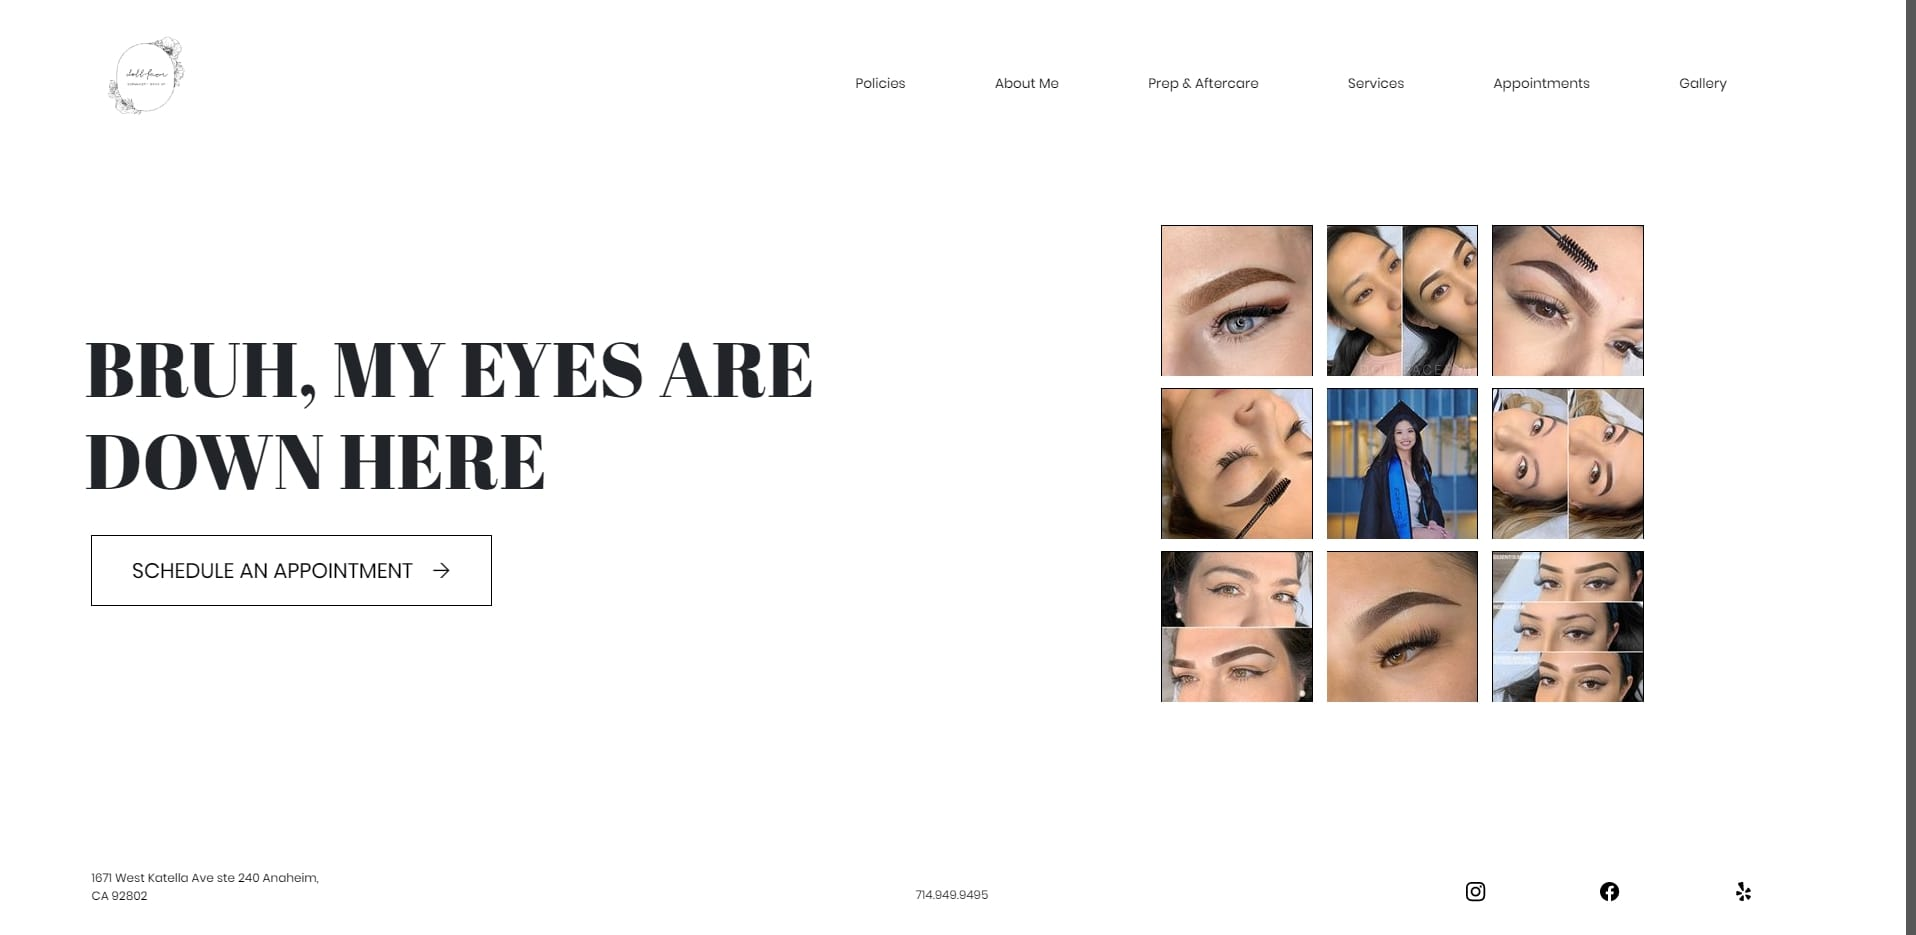
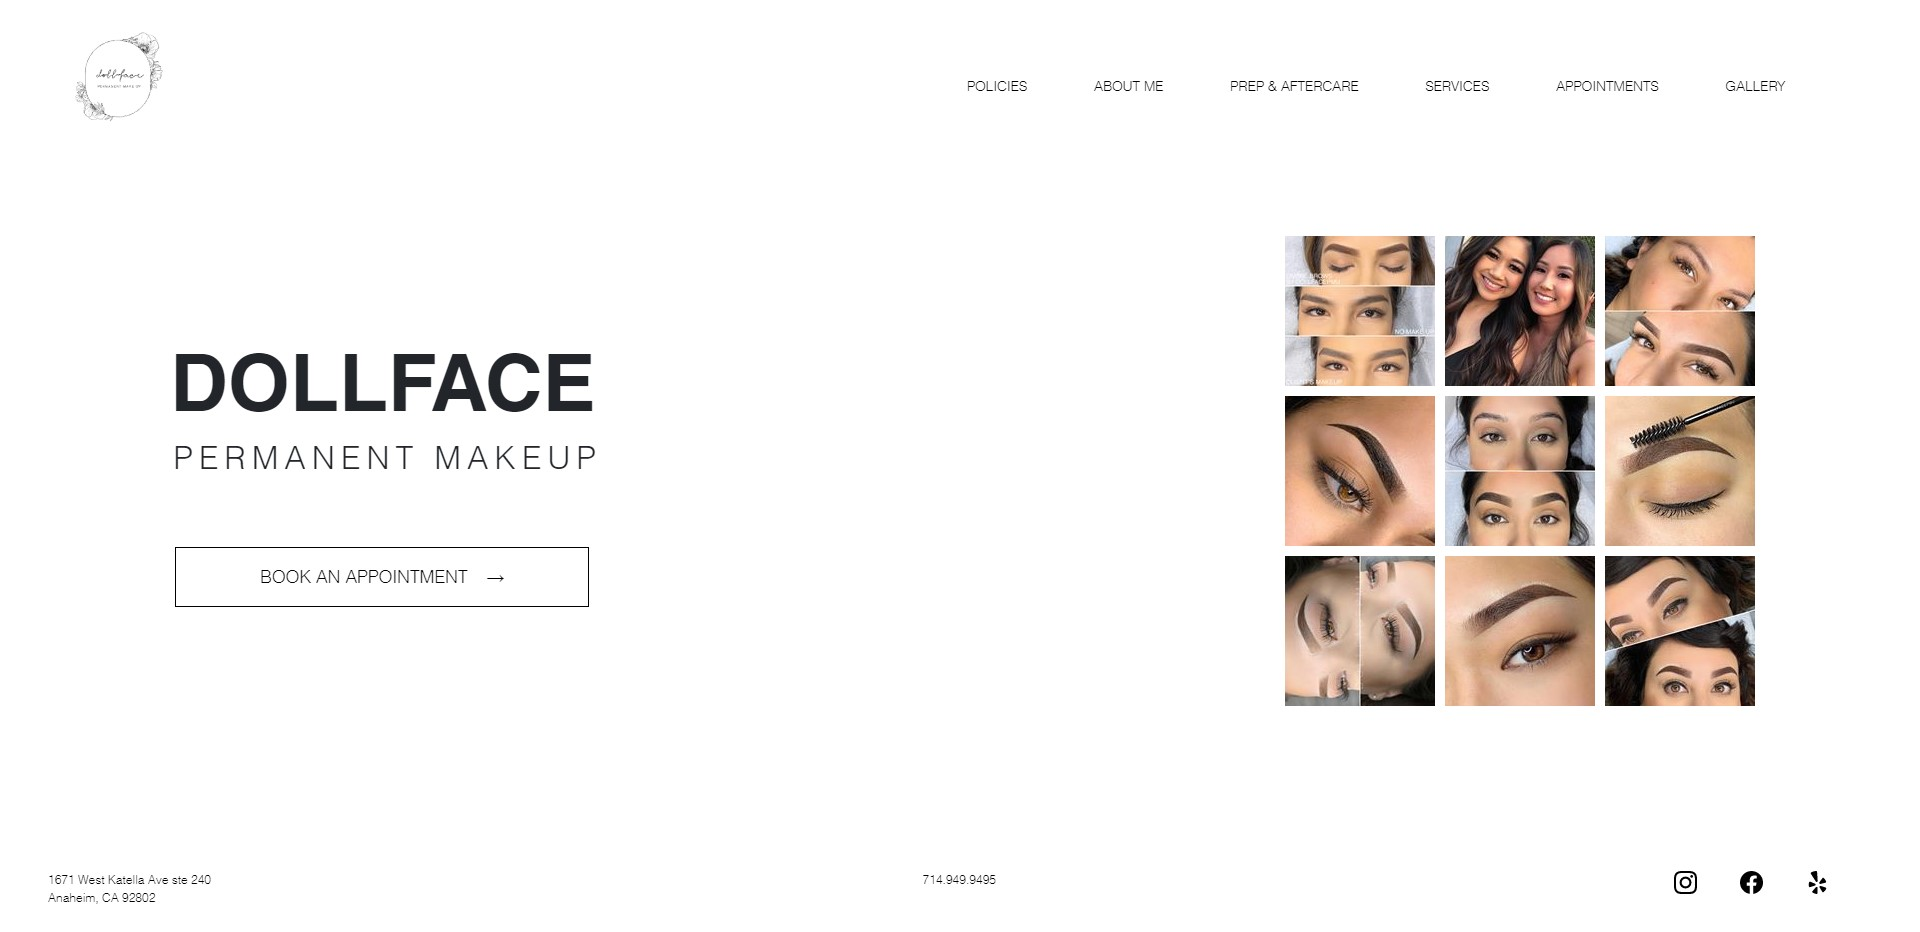
fixes and adds to dolfface case study

diff --git a/src/pages/dollface/Dollface.js b/src/pages/dollface/Dollface.js
@@ -1,6 +1,7 @@
 import React from 'react';
 import DollfaceHome from './dollface-home.jpg';
 import DollfaceMobileMenu from './dollface-mobile-menu.jpg';
+import DollfaceServices from './dollface-services.jpg';
 import Navbar from '../../General/Navbar';
 
 const Dollface = () => {
@@ -33,7 +34,7 @@ const Dollface = () => {
                 </div>
                 <div className="project-challenges-text" id="dollface-challenge">
                     <p>
-                        Many similar businesses opted for a nearly identical style and feel for their website. I had to figure out how to create a website that stood out and was unique in a sea of similarities. After taking the time to research, I found another common theme in other eyebrow tattoo website. They all wanted to portray an image of elegant beauty with the use of script-themed fonts, floral patterns, and gold-brown color accents. I decided to create a website that utilized a color scheme that only involved black, white, and grey. I also opted for no design patterns and used two fonts to help the customer distinguish between title and content. One font was thicker in weight and blockier in style, and the other was a simple sans-serif type font. The sharp differences allowed the fonts to work together to make the reading experience pleasurable.
+                        Many similar businesses opted for a nearly identical style and feel for their website. I had to figure out how to create a website that stood out and was unique in a sea of similarities. After taking the time to research, I found another common theme in other eyebrow tattoo websites and that was that they all wanted to portray an image of elegant beauty through the use of script-based fonts, floral patterns, and gold-brown color accents. I decided to create a website that utilized a color scheme that only involved black, white, and grey to show users a website that was clear cut and simple, much like the service they would be receiving. I also opted for no design patterns as to not distract the user from the task at hand which was to book an appointment.
                     </p>
                 </div>
             </div>
@@ -47,10 +48,12 @@ const Dollface = () => {
                 <div className="space"></div>
                 <div className="project-conclusion-text">
                     <p>
-                    The vision for the website has seemingly been obtained. The site is currently going through user testing before becoming live. After a few months of the website being live, a more thoughtful and more explicit conclusion will be given.
+                        Users enjoyed the simple interface and felt as if the website portrayed the business very well. We randomly selected 20 individuals which provided a mixture of interests and age groups. Ultimately, this gave us a clearer picture of how fluid and easy to use the website was. 18 out of the 20 individuals commented that the website was very simple and very easy to use and all participants gave a score of 3 or lower when asked to rate how easy the website was to navigate from 1 - 10  (1 being the easiest and 10 being the hardest). Addtionally, 16 out of 20 said that they would recommend the website to colleagues, friends and family if they knew someone interested in permanent makeup services. The color scheme, sharp edges, and minimistic layout allowed people from all kinds of background to easily navigate through the webiste without much difficulty which would in theory, not only enable users to find information they need but also to easily book appointments for their next permanent makeup service.
                     </p>
                 </div>
             </div>
+            <img src={DollfaceServices} />
+            <div className="space"></div>
         </div>
     )
 }

diff --git a/src/pages/Home.js b/src/pages/Home.js
@@ -27,7 +27,7 @@ const Home = () => {
                     </Link>
                     <div className="link-icons">
                         <a href="https://github.com/Meraki-dot/dollfacepmu" target="_blank"><FontAwesomeIcon icon={faGithub} /></a>
-                        <a href="https://meraki-dot.github.io/dollfacepmu/" target="_blank"><FontAwesomeIcon icon={faExternalLinkAlt} /></a>
+                        <a href="https://dollfacepmu.com" target="_blank"><FontAwesomeIcon icon={faExternalLinkAlt} /></a>
                     </div>
                 </div>
                 <div className="singular-work-container">
